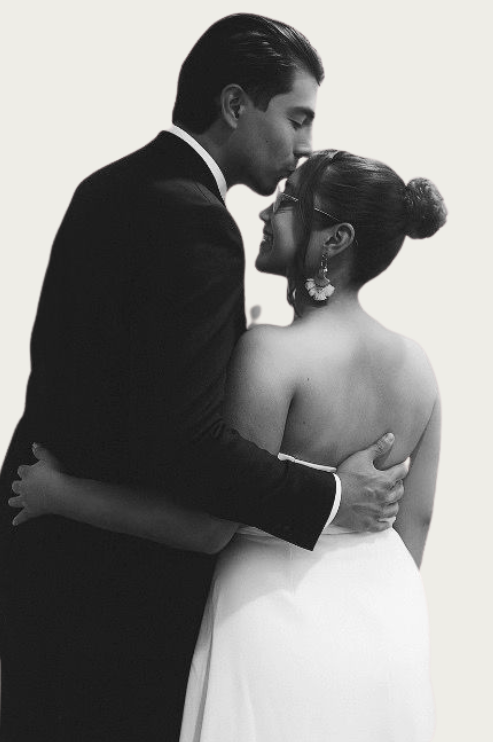
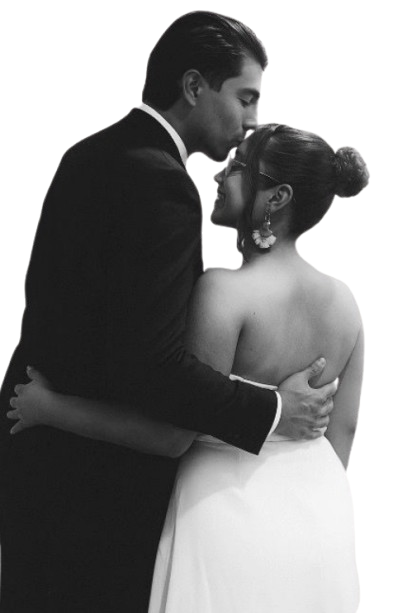
Optimizar visualización de imágenes - Mejorar proporciones y responsive

diff --git a/css/components.css b/css/components.css
@@ -320,6 +320,7 @@
     width: 100%;
     height: 400px;
     object-fit: cover;
+    object-position: center;
     border-radius: var(--border-radius-lg);
     box-shadow: var(--shadow-lg);
     transition: transform var(--transition-normal);
@@ -350,8 +351,14 @@
     width: 100%;
     height: 500px;
     object-fit: cover;
+    object-position: center;
     border-radius: var(--border-radius-lg);
     box-shadow: var(--shadow-lg);
+    transition: transform var(--transition-normal);
+}
+
+.event__img:hover {
+    transform: scale(1.02);
 }
 
 .event__details {
@@ -484,16 +491,40 @@
 }
 
 .rsvp__img {
-    width: 200px;
+    width: 300px;
     height: 200px;
     object-fit: cover;
-    border-radius: 50%;
+    object-position: center;
+    border-radius: var(--border-radius-lg);
     box-shadow: var(--shadow-lg);
     transition: transform var(--transition-normal);
 }
 
 .rsvp__img:hover {
     transform: scale(1.05);
+}
+
+/* Estilos específicos para diferentes proporciones de imagen */
+.story__img,
+.event__img,
+.rsvp__img {
+    /* Asegurar que las imágenes se vean bien independientemente de su proporción */
+    object-fit: cover;
+    object-position: center;
+}
+
+/* Para imágenes horizontales (como las manos) */
+.rsvp__img {
+    /* Mantener la proporción horizontal */
+    aspect-ratio: 3/2;
+    max-width: 400px;
+    width: 100%;
+}
+
+/* Para imágenes verticales o cuadradas */
+.story__img,
+.event__img {
+    aspect-ratio: 4/3;
 }
 
 .rsvp__decoration {

diff --git a/index.html b/index.html
@@ -86,7 +86,7 @@
         <div class="container">
             <div class="event__content">
                 <div class="event__image">
-                    <img src="assets/images/dg_beso_de pie.png" alt="Daniel y Gabriela abrazándose" class="event__img">
+                    <img src="assets/images/dg_beso_de_pie.png" alt="Daniel y Gabriela abrazándose" class="event__img">
                 </div>
                 
                 <div class="event__details">
@@ -121,7 +121,7 @@
         <div class="container">
             <div class="rsvp__content">
                 <div class="rsvp__image">
-                    <img src="assets/images/dg_manos agarradas.png" alt="Daniel y Gabriela" class="rsvp__img">
+                    <img src="assets/images/dg_manos_agarradas.png" alt="Daniel y Gabriela" class="rsvp__img">
                 </div>
                 <div class="rsvp__decoration">
                     <div class="decoration__rings">

diff --git a/css/responsive.css b/css/responsive.css
@@ -234,6 +234,8 @@
     
     .story__img {
         height: 250px;
+        object-fit: cover;
+        object-position: center;
     }
     
     /* Event móvil */
@@ -261,6 +263,8 @@
     
     .event__img {
         height: 200px;
+        object-fit: cover;
+        object-position: center;
     }
     
     .info__title {
@@ -307,6 +311,13 @@
     
     .rsvp__blessing {
         font-size: var(--font-size-base);
+    }
+    
+    .rsvp__img {
+        width: 250px;
+        height: 150px;
+        object-fit: cover;
+        object-position: center;
     }
     
     /* Footer móvil */
